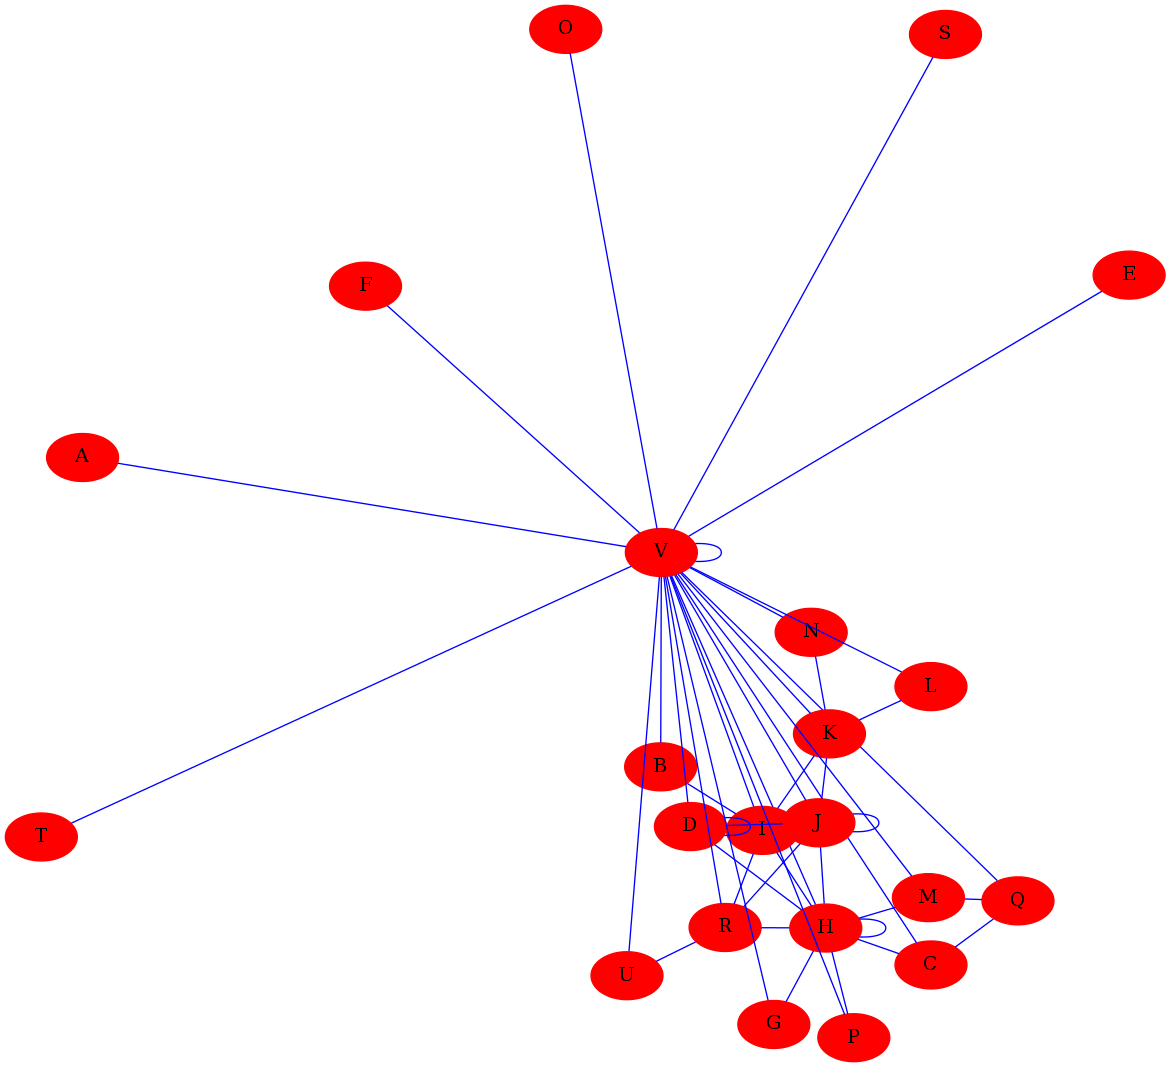
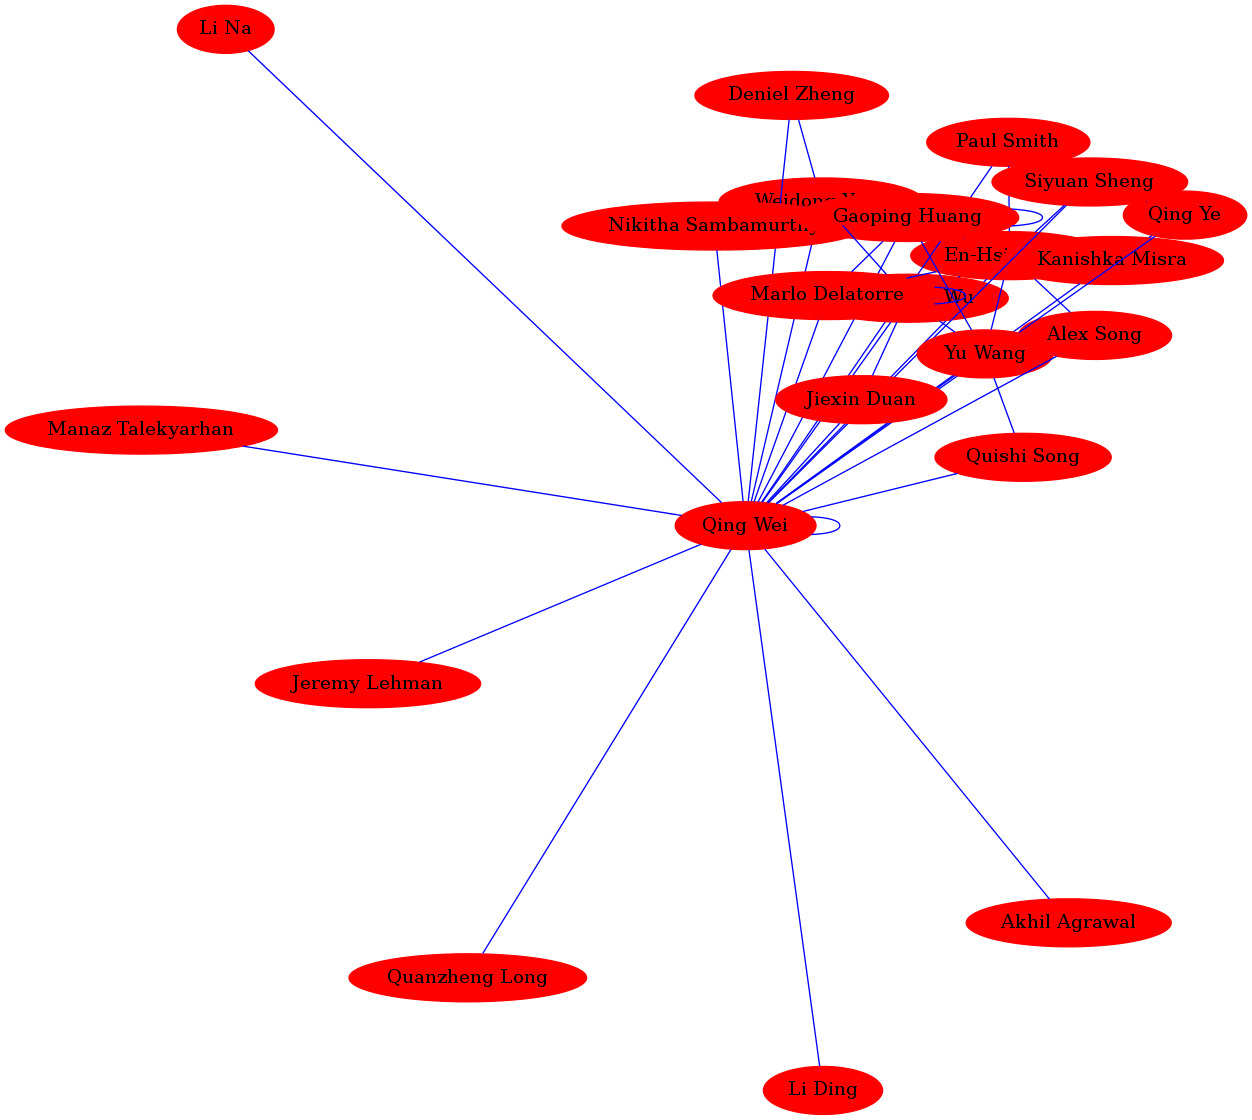
test

diff --git a/ironhack/data_analysis/network_generator.py b/ironhack/data_analysis/network_generator.py
@@ -13,9 +13,11 @@ sh = book.sheet_by_index(0)
 print sh.name, sh.nrows, sh.ncols
 print "Cell D30 is", sh.cell_value(rowx=3, colx=3)
 
+names = [0 for x in range(sh.nrows-1)]
 array = [[0 for x in range(sh.nrows-1)] for x in range(sh.ncols-1)]
 
 for i in range(1, sh.nrows):
+	names[i-1] = sh.cell_value(0, i)
 	for j in range(1, sh.ncols):
 		array[i-1][j-1] = sh.cell_value(rowx=i, colx=j)
 print array
@@ -32,7 +34,8 @@ A = np.array(array)
 A = A.view(dt)
 
 G = nx.from_numpy_matrix(A)
-G = nx.relabel_nodes(G, dict(zip(range(len(G.nodes())),string.ascii_uppercase)))    
+#G = nx.relabel_nodes(G, dict(zip(range(len(G.nodes())),string.ascii_uppercase)))    
+G = nx.relabel_nodes(G, dict(zip(range(len(G.nodes())),names)))
 
 G = nx.drawing.nx_agraph.to_agraph(G)
 
